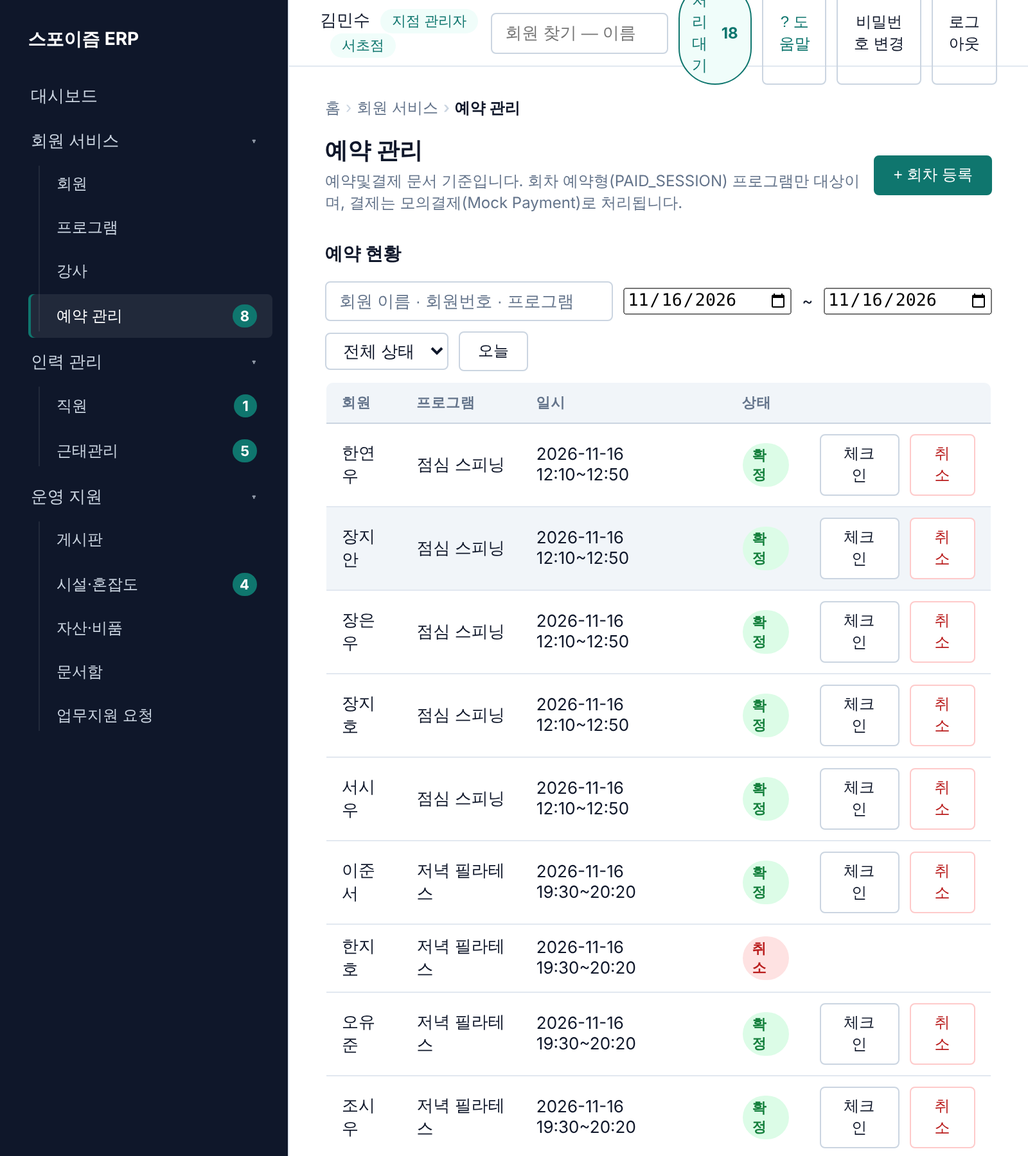
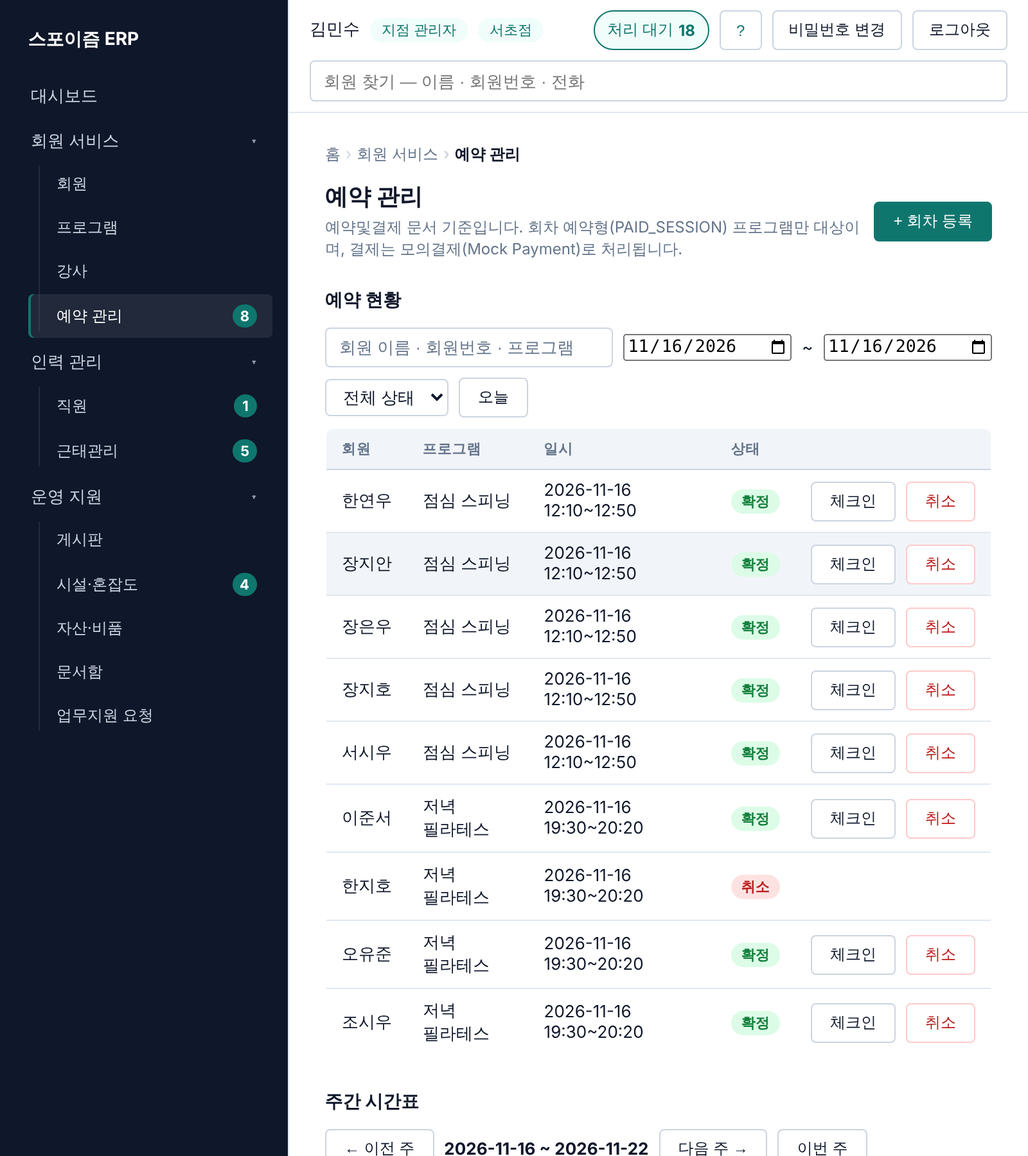
fix(admin-web): 800px 상단 바 두 줄·표 라벨 한 줄, 꺾인 글자 화면 검사 추가 — 12주차 덱 반영 (log/233)
- 상단 바(900px 이하): 1줄 이름·버튼, 2줄 회원 찾기. 글자 줄바꿈 금지, 도움말은 "?"만(aria-label 유지)
- 표: 상태 표시·버튼 한 줄, 칸은 띄어쓰기에서만 줄바꿈(keep-all). 회원 표는 .table-scroll(log/228 방식)
- admin-layout: 상단 바·표 라벨의 꺾인 글자 검사(D59) — 수정 전 실패 확인
- 덱 narrow·wrap 다시 찍고 문구 갱신

Claude-Session: https://claude.ai/code/session_01NJ8jv6LpwMdNJw8WZYQchH

diff --git a/docs/presentation/assets/4-9_12주차발표/deck-source/deck-out/project/slides/narrow.html b/docs/presentation/assets/4-9_12주차발표/deck-source/deck-out/project/slides/narrow.html
@@ -1,1 +1,1 @@
-<section id="narrow" data-transition="fade" style="background:#F4F5F3; color:#14191C; font-family:'Noto Sans KR', 'Malgun Gothic', 'Apple SD Gothic Neo', sans-serif; padding:72px 96px 120px; display:flex; flex-direction:column; gap:16px"><p style="font-family:'JetBrains Mono', 'Noto Sans KR', Consolas, monospace; font-size:24px; font-weight:600; letter-spacing:3px; color:#1E3A5F">사용감 · 좁은 화면</p><h2 style="font-family:'Gothic A1', 'Noto Sans KR', 'Malgun Gothic', sans-serif; font-size:60px; font-weight:700; line-height:1.15; letter-spacing:-1px; color:#14191C">좁은 창에서 넘치던 곳을 고쳤다</h2><p style="font-size:30px; line-height:1.45; color:#4B5563; width:1728px">좁은 노트북이나 창을 나눠 쓸 때(800px)도 내용이 잘리면 안 된다.</p><div style="flex:1; display:flex; flex-direction:column; justify-content:center; gap:32px"><div style="display:flex; gap:40px; align-items:flex-start"><div style="flex:1; display:flex; flex-direction:column; gap:14px"><p style="font-family:'JetBrains Mono', 'Noto Sans KR', Consolas, monospace; font-size:24px; font-weight:600; color:#9A5A0C; background:#F6ECDD; border-radius:999px; padding:4px 18px; white-space:nowrap">변경 전</p><div style="width:820px; display:flex; flex-direction:column; background:#FFFFFF; border:1px solid #CBD0CD; border-radius:14px; box-shadow:0 1px 2px rgba(20,25,28,0.05), 0 14px 32px -18px rgba(20,25,28,0.28); overflow:hidden"><div style="display:flex; gap:10px; align-items:center; padding:12px 20px; background:#EBEEEC; border-bottom:1px solid #E1E4E1"><div style="width:14px; height:14px; background:#d9534f; border-radius:256px"></div><div style="width:14px; height:14px; background:#e0a43a; border-radius:256px"></div><div style="width:14px; height:14px; background:#4caf6a; border-radius:256px"></div><p style="font-family:'JetBrains Mono', 'Noto Sans KR', Consolas, monospace; font-size:24px; white-space:nowrap; color:#4B5563; padding:0 0 0 16px">예약 관리 · 800px</p></div><img src="/_blob/b4fae15b470ba737e840d5d6b7fd0ec1" alt="800px 폭 예약 관리 — 상태 선택이 화면 밖으로 잘림" style="width:820px; height:322px; object-fit:contain; background:#FFFFFF"></div><p style="font-size:28px; font-weight:400; line-height:1.45; color:#14191C">필터 줄이 화면 밖으로 잘린다</p></div><div style="flex:1; display:flex; flex-direction:column; gap:14px"><p style="font-family:'JetBrains Mono', 'Noto Sans KR', Consolas, monospace; font-size:24px; font-weight:600; color:#187650; background:#E3F1EA; border-radius:999px; padding:4px 18px; white-space:nowrap">변경 후</p><div style="width:820px; display:flex; flex-direction:column; background:#FFFFFF; border:1px solid #CBD0CD; border-radius:14px; box-shadow:0 1px 2px rgba(20,25,28,0.05), 0 14px 32px -18px rgba(20,25,28,0.28); overflow:hidden"><div style="display:flex; gap:10px; align-items:center; padding:12px 20px; background:#EBEEEC; border-bottom:1px solid #E1E4E1"><div style="width:14px; height:14px; background:#d9534f; border-radius:256px"></div><div style="width:14px; height:14px; background:#e0a43a; border-radius:256px"></div><div style="width:14px; height:14px; background:#4caf6a; border-radius:256px"></div><p style="font-family:'JetBrains Mono', 'Noto Sans KR', Consolas, monospace; font-size:24px; white-space:nowrap; color:#4B5563; padding:0 0 0 16px">예약 관리 · 800px</p></div><img src="/_blob/83c988ccf675f425206cb1b4c53bb14b" alt="800px 폭 예약 관리 — 필터가 두 줄로 줄바꿈" style="width:820px; height:322px; object-fit:contain; background:#FFFFFF"></div><p style="font-size:28px; font-weight:400; line-height:1.45; color:#14191C">두 줄로 내려와 모두 보인다</p></div></div></div><p style="position:absolute; left:96px; bottom:40px; width:1728px; font-size:24px; color:#4B5563">문서함 · 자산 표는 표만 옆으로 넘기게 고침 · 상단 바 버튼 줄바꿈은 다음 할 일</p><aside>좁은 노트북이나 창을 나눠 쓸 때(800px). 테스트가 찾은 넘침 세 곳 — 예약 관리 필터 줄, 문서함 표, 자산 표. 필터 줄은 줄바꿈되게, 표는 표만 가로로 넘기게 고쳤다(본문은 밀리지 않음). 테스트가 처음에 실행마다 결과가 달랐는데, 목록이 그려지기 전에 재면 통과하는 측정 시점 문제였다 — 목록이 다 뜬 뒤 재도록 고쳤다. 정직하게: 같은 폭에서 위쪽 상단 바(처리 대기 · 비밀번호 변경 버튼)는 아직 줄바꿈된다 — 넘침 검사로는 안 잡히는 종류라 다음 할 일로 남겼다.</aside></section>
+<section id="narrow" data-transition="fade" style="background:#F4F5F3; color:#14191C; font-family:'Noto Sans KR', 'Malgun Gothic', 'Apple SD Gothic Neo', sans-serif; padding:72px 96px 120px; display:flex; flex-direction:column; gap:16px"><p style="font-family:'JetBrains Mono', 'Noto Sans KR', Consolas, monospace; font-size:24px; font-weight:600; letter-spacing:3px; color:#1E3A5F">사용감 · 좁은 화면</p><h2 style="font-family:'Gothic A1', 'Noto Sans KR', 'Malgun Gothic', sans-serif; font-size:60px; font-weight:700; line-height:1.15; letter-spacing:-1px; color:#14191C">좁은 창에서 깨지던 곳을 고쳤다</h2><p style="font-size:30px; line-height:1.45; color:#4B5563; width:1728px">좁은 노트북이나 창을 나눠 쓸 때(800px)도 글자가 잘리거나 꺾이면 안 된다.</p><div style="flex:1; display:flex; flex-direction:column; justify-content:center; gap:32px"><div style="display:flex; gap:40px; align-items:flex-start"><div style="flex:1; display:flex; flex-direction:column; gap:14px"><p style="font-family:'JetBrains Mono', 'Noto Sans KR', Consolas, monospace; font-size:24px; font-weight:600; color:#9A5A0C; background:#F6ECDD; border-radius:999px; padding:4px 18px; white-space:nowrap">변경 전</p><div style="width:720px; display:flex; flex-direction:column; background:#FFFFFF; border:1px solid #CBD0CD; border-radius:14px; box-shadow:0 1px 2px rgba(20,25,28,0.05), 0 14px 32px -18px rgba(20,25,28,0.28); overflow:hidden"><div style="display:flex; gap:10px; align-items:center; padding:12px 20px; background:#EBEEEC; border-bottom:1px solid #E1E4E1"><div style="width:14px; height:14px; background:#d9534f; border-radius:256px"></div><div style="width:14px; height:14px; background:#e0a43a; border-radius:256px"></div><div style="width:14px; height:14px; background:#4caf6a; border-radius:256px"></div><p style="font-family:'JetBrains Mono', 'Noto Sans KR', Consolas, monospace; font-size:24px; white-space:nowrap; color:#4B5563; padding:0 0 0 16px">예약 관리 · 800px</p></div><img src="/_blob/a7e596ab9562a589108eedd83ea63d2c" alt="800px 폭 예약 관리 — 상단 버튼·이름·상태가 글자 중간에서 꺾이고 필터가 잘림" style="width:720px; height:513px; object-fit:contain; background:#FFFFFF"></div><p style="font-size:28px; font-weight:400; line-height:1.45; color:#14191C">버튼 · 이름이 꺾이고 필터가 잘린다</p></div><div style="flex:1; display:flex; flex-direction:column; gap:14px"><p style="font-family:'JetBrains Mono', 'Noto Sans KR', Consolas, monospace; font-size:24px; font-weight:600; color:#187650; background:#E3F1EA; border-radius:999px; padding:4px 18px; white-space:nowrap">변경 후</p><div style="width:720px; display:flex; flex-direction:column; background:#FFFFFF; border:1px solid #CBD0CD; border-radius:14px; box-shadow:0 1px 2px rgba(20,25,28,0.05), 0 14px 32px -18px rgba(20,25,28,0.28); overflow:hidden"><div style="display:flex; gap:10px; align-items:center; padding:12px 20px; background:#EBEEEC; border-bottom:1px solid #E1E4E1"><div style="width:14px; height:14px; background:#d9534f; border-radius:256px"></div><div style="width:14px; height:14px; background:#e0a43a; border-radius:256px"></div><div style="width:14px; height:14px; background:#4caf6a; border-radius:256px"></div><p style="font-family:'JetBrains Mono', 'Noto Sans KR', Consolas, monospace; font-size:24px; white-space:nowrap; color:#4B5563; padding:0 0 0 16px">예약 관리 · 800px</p></div><img src="/_blob/3f4e70c57429020434710e88a1553030" alt="800px 폭 예약 관리 — 상단 바 두 줄, 라벨 한 줄, 필터 두 줄" style="width:720px; height:513px; object-fit:contain; background:#FFFFFF"></div><p style="font-size:28px; font-weight:400; line-height:1.45; color:#14191C">한 줄로 읽히고 모두 보인다</p></div></div></div><p style="position:absolute; left:96px; bottom:40px; width:1728px; font-size:24px; color:#4B5563">문서함 · 자산 · 회원 표는 표만 옆으로 · 꺾인 글자도 테스트가 본다(log/233)</p><aside>좁은 노트북이나 창을 나눠 쓸 때(800px). 테스트가 찾은 넘침 세 곳 — 예약 관리 필터 줄, 문서함 표, 자산 표. 필터 줄은 줄바꿈되게, 표는 표만 가로로 넘기게 고쳤다(본문은 밀리지 않음). 테스트가 처음에 실행마다 결과가 달랐는데, 목록이 그려지기 전에 재면 통과하는 측정 시점 문제였다 — 목록이 다 뜬 뒤 재도록 고쳤다. 덱을 만들며 눈으로 찾은 것도 고쳤다: 상단 바 버튼과 표 안 이름 · 상태 · 버튼이 글자 중간에서 꺾였다 — 넘침 검사로는 안 잡히는 종류라 "꺾인 글자" 검사를 테스트에 더했다. 상단 바는 좁은 폭에서 두 줄(이름 · 버튼 / 회원 찾기), 표 칸은 띄어쓰기에서만 줄바꿈.</aside></section>

diff --git a/docs/presentation/assets/4-9_12주차발표/deck-source/deck-out/project/slides/wrap.html b/docs/presentation/assets/4-9_12주차발표/deck-source/deck-out/project/slides/wrap.html
@@ -1,1 +1,1 @@
-<section id="wrap" data-transition="fade" style="background:#F4F5F3; color:#14191C; font-family:'Noto Sans KR', 'Malgun Gothic', 'Apple SD Gothic Neo', sans-serif; padding:72px 96px 120px; display:flex; flex-direction:column; gap:16px"><p style="font-family:'JetBrains Mono', 'Noto Sans KR', Consolas, monospace; font-size:24px; font-weight:600; letter-spacing:3px; color:#1E3A5F">정리</p><h2 style="font-family:'Gothic A1', 'Noto Sans KR', 'Malgun Gothic', sans-serif; font-size:60px; font-weight:700; line-height:1.15; letter-spacing:-1px; color:#14191C">다음 할 일</h2><p style="font-size:30px; line-height:1.45; color:#4B5563; width:1728px">남은 것은 제출 준비, 사용감 점검, 마무리다.</p><div style="flex:1; display:flex; flex-direction:column; justify-content:center; gap:32px"><div style="display:flex; gap:20px; align-items:stretch"><div style="display:flex; flex-direction:column; gap:14px; background:#FFFFFF; border:1px solid #E1E4E1; border-radius:14px; padding:36px; box-shadow:0 1px 2px rgba(20,25,28,0.05), 0 14px 32px -18px rgba(20,25,28,0.28); flex:1"><x-icon name="Book" style="color:#1E3A5F; width:48px; height:48px"></x-icon><h3 style="font-family:'Gothic A1', 'Noto Sans KR', 'Malgun Gothic', sans-serif; font-size:34px; font-weight:700; line-height:1.25; color:#14191C">최종 발표 · 제출</h3><p style="font-size:28px; font-weight:400; line-height:1.45; color:#4B5563">최종 발표 덱 · 제출 폴더</p></div><div style="display:flex; flex-direction:column; gap:14px; background:#FFFFFF; border:1px solid #E1E4E1; border-radius:14px; padding:36px; box-shadow:0 1px 2px rgba(20,25,28,0.05), 0 14px 32px -18px rgba(20,25,28,0.28); flex:1"><x-icon name="Search" style="color:#1E3A5F; width:48px; height:48px"></x-icon><h3 style="font-family:'Gothic A1', 'Noto Sans KR', 'Malgun Gothic', sans-serif; font-size:34px; font-weight:700; line-height:1.25; color:#14191C">사용감 직접 점검</h3><p style="font-size:28px; font-weight:400; line-height:1.45; color:#4B5563">좁은 폭 상단 바 · 남은 스크롤 · 시설 카드 버튼</p></div><div style="display:flex; flex-direction:column; gap:14px; background:#FFFFFF; border:1px solid #E1E4E1; border-radius:14px; padding:36px; box-shadow:0 1px 2px rgba(20,25,28,0.05), 0 14px 32px -18px rgba(20,25,28,0.28); flex:1"><x-icon name="Check" style="color:#1E3A5F; width:48px; height:48px"></x-icon><h3 style="font-family:'Gothic A1', 'Noto Sans KR', 'Malgun Gothic', sans-serif; font-size:34px; font-weight:700; line-height:1.25; color:#14191C">마무리</h3><p style="font-size:28px; font-weight:400; line-height:1.45; color:#4B5563">운영 PT 구매 확인 · 브랜치 정리 · main 병합</p></div></div></div><aside>남은 것은 진행률의 발표 · 제출(최종 발표 덱 · 제출 폴더)과 운영 · 마무리(운영 PT 확인 · 브랜치 정리 · main 병합). 사용감은 사용자가 직접 더 써 보며 찾는다 — 이번에 본 좁은 폭 상단 바, 공지 등록 버튼 · 회원 앱 예약 취소까지의 스크롤, 넓은 화면에서 시설 카드 버튼이 세로로 찌그러지는 것. 검증 범위(질문 대비): api 자동 테스트 671건(실DB), 화면 자동 테스트 35건 — 그 밖의 화면은 lint · 빌드와 수동 점검.</aside></section>
+<section id="wrap" data-transition="fade" style="background:#F4F5F3; color:#14191C; font-family:'Noto Sans KR', 'Malgun Gothic', 'Apple SD Gothic Neo', sans-serif; padding:72px 96px 120px; display:flex; flex-direction:column; gap:16px"><p style="font-family:'JetBrains Mono', 'Noto Sans KR', Consolas, monospace; font-size:24px; font-weight:600; letter-spacing:3px; color:#1E3A5F">정리</p><h2 style="font-family:'Gothic A1', 'Noto Sans KR', 'Malgun Gothic', sans-serif; font-size:60px; font-weight:700; line-height:1.15; letter-spacing:-1px; color:#14191C">다음 할 일</h2><p style="font-size:30px; line-height:1.45; color:#4B5563; width:1728px">남은 것은 제출 준비, 사용감 점검, 마무리다.</p><div style="flex:1; display:flex; flex-direction:column; justify-content:center; gap:32px"><div style="display:flex; gap:20px; align-items:stretch"><div style="display:flex; flex-direction:column; gap:14px; background:#FFFFFF; border:1px solid #E1E4E1; border-radius:14px; padding:36px; box-shadow:0 1px 2px rgba(20,25,28,0.05), 0 14px 32px -18px rgba(20,25,28,0.28); flex:1"><x-icon name="Book" style="color:#1E3A5F; width:48px; height:48px"></x-icon><h3 style="font-family:'Gothic A1', 'Noto Sans KR', 'Malgun Gothic', sans-serif; font-size:34px; font-weight:700; line-height:1.25; color:#14191C">최종 발표 · 제출</h3><p style="font-size:28px; font-weight:400; line-height:1.45; color:#4B5563">최종 발표 덱 · 제출 폴더</p></div><div style="display:flex; flex-direction:column; gap:14px; background:#FFFFFF; border:1px solid #E1E4E1; border-radius:14px; padding:36px; box-shadow:0 1px 2px rgba(20,25,28,0.05), 0 14px 32px -18px rgba(20,25,28,0.28); flex:1"><x-icon name="Search" style="color:#1E3A5F; width:48px; height:48px"></x-icon><h3 style="font-family:'Gothic A1', 'Noto Sans KR', 'Malgun Gothic', sans-serif; font-size:34px; font-weight:700; line-height:1.25; color:#14191C">사용감 직접 점검</h3><p style="font-size:28px; font-weight:400; line-height:1.45; color:#4B5563">남은 스크롤 · 시설 카드 버튼</p></div><div style="display:flex; flex-direction:column; gap:14px; background:#FFFFFF; border:1px solid #E1E4E1; border-radius:14px; padding:36px; box-shadow:0 1px 2px rgba(20,25,28,0.05), 0 14px 32px -18px rgba(20,25,28,0.28); flex:1"><x-icon name="Check" style="color:#1E3A5F; width:48px; height:48px"></x-icon><h3 style="font-family:'Gothic A1', 'Noto Sans KR', 'Malgun Gothic', sans-serif; font-size:34px; font-weight:700; line-height:1.25; color:#14191C">마무리</h3><p style="font-size:28px; font-weight:400; line-height:1.45; color:#4B5563">운영 PT 구매 확인 · 브랜치 정리 · main 병합</p></div></div></div><aside>남은 것은 진행률의 발표 · 제출(최종 발표 덱 · 제출 폴더)과 운영 · 마무리(운영 PT 확인 · 브랜치 정리 · main 병합). 사용감은 사용자가 직접 더 써 보며 찾는다 — 공지 등록 버튼 · 회원 앱 예약 취소까지의 스크롤, 넓은 화면에서 시설 카드 버튼이 세로로 찌그러지는 것. 검증 범위(질문 대비): api 자동 테스트 671건(실DB), 화면 자동 테스트 35건 — 그 밖의 화면은 lint · 빌드와 수동 점검.</aside></section>

diff --git a/apps/admin-web/src/pages/MembersPage.tsx b/apps/admin-web/src/pages/MembersPage.tsx
@@ -275,34 +275,37 @@ export function MembersPage() {
       )}
 
       {!isError && rows.length > 0 && (
-        <table>
-          <thead>
-            <tr>
-              {isSuperAdmin && <SortTh label="지점" sortKey="branch" sort={sort} onToggle={toggleSort} />}
-              <SortTh label="회원번호" sortKey="memberNo" sort={sort} onToggle={toggleSort} />
-              <SortTh label="이름" sortKey="name" sort={sort} onToggle={toggleSort} />
-              <th>연락처</th>
-              <SortTh label="담당 직원" sortKey="assignedStaff" sort={sort} onToggle={toggleSort} />
-              <SortTh label="상태" sortKey="status" sort={sort} onToggle={toggleSort} />
-              <SortTh label="가입일" sortKey="joinedAt" sort={sort} onToggle={toggleSort} />
-            </tr>
-          </thead>
-          <tbody>
-            {rows.map((m) => (
-              <tr key={m.id} className="branch-row" onClick={() => navigate(`/members/${m.id}`)}>
-                {isSuperAdmin && <td>{m.branchName ?? '-'}</td>}
-                <td>{m.memberNo}</td>
-                <td>{m.name}</td>
-                <td>{m.phone ?? '-'}</td>
-                <td>{m.assignedStaffName ?? '회원권만(미배정)'}</td>
-                <td>
-                  <span className={`badge ${m.status}`}>{STATUS_LABEL[m.status] ?? m.status}</span>
-                </td>
-                <td>{m.joinedAt}</td>
+        // 좁은 폭에서는 표만 가로로 넘긴다(log/228·233 — 칸 글자는 띄어쓰기에서만 줄바꿈해 표가 넓어질 수 있다)
+        <div className="table-scroll">
+          <table>
+            <thead>
+              <tr>
+                {isSuperAdmin && <SortTh label="지점" sortKey="branch" sort={sort} onToggle={toggleSort} />}
+                <SortTh label="회원번호" sortKey="memberNo" sort={sort} onToggle={toggleSort} />
+                <SortTh label="이름" sortKey="name" sort={sort} onToggle={toggleSort} />
+                <th>연락처</th>
+                <SortTh label="담당 직원" sortKey="assignedStaff" sort={sort} onToggle={toggleSort} />
+                <SortTh label="상태" sortKey="status" sort={sort} onToggle={toggleSort} />
+                <SortTh label="가입일" sortKey="joinedAt" sort={sort} onToggle={toggleSort} />
               </tr>
-            ))}
-          </tbody>
-        </table>
+            </thead>
+            <tbody>
+              {rows.map((m) => (
+                <tr key={m.id} className="branch-row" onClick={() => navigate(`/members/${m.id}`)}>
+                  {isSuperAdmin && <td>{m.branchName ?? '-'}</td>}
+                  <td>{m.memberNo}</td>
+                  <td>{m.name}</td>
+                  <td>{m.phone ?? '-'}</td>
+                  <td>{m.assignedStaffName ?? '회원권만(미배정)'}</td>
+                  <td>
+                    <span className={`badge ${m.status}`}>{STATUS_LABEL[m.status] ?? m.status}</span>
+                  </td>
+                  <td>{m.joinedAt}</td>
+                </tr>
+              ))}
+            </tbody>
+          </table>
+        </div>
       )}
 
       <Pager page={page} pageSize={PAGE_SIZE} total={total} onChange={setPage} disabled={isFetching} />

diff --git a/apps/admin-web/src/styles.css b/apps/admin-web/src/styles.css
@@ -556,11 +556,43 @@ body {
   color: var(--color-text-muted);
 }
 
+/* 좁은 화면(900px 이하, log/233) — 상단 바를 두 줄로: 1줄 이름·버튼, 2줄 회원 찾기(전체 폭).
+   글자는 줄바꿈하지 않고, 이름이 길면 말줄임. 도움말 버튼은 "?"만(접근 이름은 aria-label). 높이는 고정(88px)이라 도움말 패널이 그 아래에 붙는다. */
+@media (max-width: 900px) {
+  .topbar {
+    height: 88px;
+    flex-wrap: wrap;
+    align-content: center;
+    row-gap: 8px;
+    column-gap: 12px;
+    padding: 0 16px;
+  }
+  .topbar .who {
+    flex: 1 1 0;
+    min-width: 0;
+    white-space: nowrap;
+    overflow: hidden;
+    text-overflow: ellipsis;
+  }
+  .topbar-actions {
+    flex-shrink: 0;
+    white-space: nowrap;
+  }
+  .help-btn-label {
+    display: none;
+  }
+  .topbar .quick-search {
+    order: 1;
+    flex: 1 0 100%;
+    margin: 0;
+  }
+}
+
 /* 좁은 화면에서는 본문 위에 겹쳐 띄운다(본문 폭을 빼앗지 않게). */
 @media (max-width: 900px) {
   .help-panel {
     position: fixed;
-    top: 52px;
+    top: 88px;
     right: 0;
     bottom: 0;
     width: min(320px, 100vw);
@@ -670,6 +702,18 @@ tbody tr:hover td {
   border-radius: var(--radius-pill);
   font-size: 11px;
   font-weight: 600;
+  white-space: nowrap; /* 좁은 표에서 "확정"이 세로로 쪼개지지 않게(log/233) */
+}
+
+/* 표 안 버튼("체크인"·"취소")도 한 줄, 칸 글자는 띄어쓰기에서만 줄바꿈 — 좁은 폭에서 "한연|우"처럼
+   이름이 글자 중간에서 끊기지 않게(log/233) */
+td button {
+  white-space: nowrap;
+}
+td,
+th {
+  word-break: keep-all;
+  overflow-wrap: break-word; /* 띄어쓰기 없는 아주 긴 값만 마지막 수단으로 끊는다 */
 }
 
 .badge.RUNNING,

diff --git a/apps/admin-web/src/layout/AppLayout.tsx b/apps/admin-web/src/layout/AppLayout.tsx
@@ -270,8 +270,9 @@ export function AppLayout() {
               className={helpOpen ? 'help-btn active' : 'help-btn'}
               onClick={() => setHelpOpen((v) => !v)}
               aria-expanded={helpOpen}
+              aria-label="도움말"
             >
-              ? 도움말
+              ?<span className="help-btn-label"> 도움말</span>
             </button>
             <button type="button" className="logout-btn" onClick={() => setShowPassword(true)}>
               비밀번호 변경

diff --git a/docs/STATUS.md b/docs/STATUS.md
@@ -1,7 +1,7 @@
 # STATUS — 지금 상태와 다음 할 일
 
 > **세션 시작점.** 이 파일은 "지금"만 담고 세션을 마칠 때마다 **덮어쓴다**(80줄 상한, `scripts/doc-check.mjs`). 끝난 일은 지우고 경위는 [log/](log/README.md)로 보낸다.
-> 마지막 갱신: 2026-11-16 · [log/231](log/2026-W47.md#231)(12주차 발표 덱 16장 게시), [log/230](log/2026-W47.md#230)(운영 의존성 취약점 3 → 0, NestJS 11.2.10), [log/229](log/2026-W47.md#229)(계약 갱신용 영업 리포트 D81, 기업 분석 대체 문서 점검, 교육 자료 PDF 재생성 — 운영 게시판 교체는 사용자), [log/228](log/2026-W46.md#228)(검증 공백 7개 보강 — jest 25건·화면 9건, 800px 폭 넘침 3곳 수정, 진행률 84%), [log/227](log/2026-W46.md#227)(산출물 8종 재생성 — 진행률 66% → 76%), [log/226](log/2026-W46.md#226)(전체 진행률 기준, D80), [log/225](log/2026-W46.md#225)(문서 정리 — 로그를 주 단위 파일로, 지난 결정 17개를 `decisions/archive.md`로, D79), [log/222](log/2026-W46.md#222)~[log/224](log/2026-W46.md#224)(리팩토링 — api 응답 타입 `Mock*`→`*Response`, 두 웹앱 공유 코드 `packages/web-shared` D78, admin-web 복사된 오류 타입·이름표 공용화, 동작 변경 없음 약 −190줄), [log/221](log/2026-W46.md#221)(branch-isolation 휴가 픽스처 날짜를 오늘 기준으로), [log/220](log/2026-W46.md#220)(11주차 덱 — 화면 안 순서 예시 캡처), [log/219](log/2026-W46.md#219)(회원 앱 PT 구매·PT 회차 예약, ADR-RSV-09 — 배포 DB·Lambda·Worker 운영 반영), [log/218](log/2026-W46.md#218)(회원 앱 형태 = 모바일 웹 유지, D77), [log/217](log/2026-W46.md#217)(11주차 덱 — 문서 파일을 보안 설계로), [log/216](log/2026-W46.md#216)(단계 줄인 작업 네 개 모두 비교), [log/215](log/2026-W46.md#215)(장마다 맥락 한 줄), [log/214](log/2026-W46.md#214)(11주차 덱 14장으로 정리), [log/213](log/2026-W46.md#213)(사용감 변경 전·후 캡처 비교), [log/212](log/2026-W46.md#212)(11주차 발표 덱 게시), [log/211](log/2026-W46.md#211)(충족률 분모에서 해당 없음 제외 — 94%, D76), [log/210](log/2026-W46.md#210)(추적표 D72~D75 재대조), [log/209](log/2026-W46.md#209)(Worker 재배포 확인, 발표 전 할 일 정리). 2026-11-08 세션(사용감·목록 일관화·문서 파일·시각화)은 [log/197](log/2026-W45.md#197)~[log/208](log/2026-W45.md#208) — 결정 D72~D75·권한관리 ADR-AUTH-09·자원문서관리 ADR-RES-05. 그 이전 경위는 [log/README](log/README.md) 인덱스에서 찾는다.
+> 마지막 갱신: 2026-11-16 · [log/233](log/2026-W47.md#233)(800px 상단 바 두 줄·표 라벨 한 줄, 꺾인 글자 검사 추가, 덱 반영), [log/232](log/2026-W47.md#232)(12주차 덱 가독성 정리), [log/231](log/2026-W47.md#231)(12주차 발표 덱 16장 게시), [log/230](log/2026-W47.md#230)(운영 의존성 취약점 3 → 0, NestJS 11.2.10), [log/229](log/2026-W47.md#229)(계약 갱신용 영업 리포트 D81, 기업 분석 대체 문서 점검, 교육 자료 PDF 재생성 — 운영 게시판 교체는 사용자), [log/228](log/2026-W46.md#228)(검증 공백 7개 보강 — jest 25건·화면 9건, 800px 폭 넘침 3곳 수정, 진행률 84%), [log/227](log/2026-W46.md#227)(산출물 8종 재생성 — 진행률 66% → 76%), [log/226](log/2026-W46.md#226)(전체 진행률 기준, D80), [log/225](log/2026-W46.md#225)(문서 정리 — 로그를 주 단위 파일로, 지난 결정 17개를 `decisions/archive.md`로, D79), [log/222](log/2026-W46.md#222)~[log/224](log/2026-W46.md#224)(리팩토링 — api 응답 타입 `Mock*`→`*Response`, 두 웹앱 공유 코드 `packages/web-shared` D78, admin-web 복사된 오류 타입·이름표 공용화, 동작 변경 없음 약 −190줄), [log/221](log/2026-W46.md#221)(branch-isolation 휴가 픽스처 날짜를 오늘 기준으로), [log/220](log/2026-W46.md#220)(11주차 덱 — 화면 안 순서 예시 캡처), [log/219](log/2026-W46.md#219)(회원 앱 PT 구매·PT 회차 예약, ADR-RSV-09 — 배포 DB·Lambda·Worker 운영 반영), [log/218](log/2026-W46.md#218)(회원 앱 형태 = 모바일 웹 유지, D77), [log/217](log/2026-W46.md#217)(11주차 덱 — 문서 파일을 보안 설계로), [log/216](log/2026-W46.md#216)(단계 줄인 작업 네 개 모두 비교), [log/215](log/2026-W46.md#215)(장마다 맥락 한 줄), [log/214](log/2026-W46.md#214)(11주차 덱 14장으로 정리), [log/213](log/2026-W46.md#213)(사용감 변경 전·후 캡처 비교), [log/212](log/2026-W46.md#212)(11주차 발표 덱 게시), [log/211](log/2026-W46.md#211)(충족률 분모에서 해당 없음 제외 — 94%, D76), [log/210](log/2026-W46.md#210)(추적표 D72~D75 재대조), [log/209](log/2026-W46.md#209)(Worker 재배포 확인, 발표 전 할 일 정리). 2026-11-08 세션(사용감·목록 일관화·문서 파일·시각화)은 [log/197](log/2026-W45.md#197)~[log/208](log/2026-W45.md#208) — 결정 D72~D75·권한관리 ADR-AUTH-09·자원문서관리 ADR-RES-05. 그 이전 경위는 [log/README](log/README.md) 인덱스에서 찾는다.
 
 ## 현재 상태
 
@@ -15,7 +15,7 @@
 | api 호스팅 | **AWS Lambda(서울) 운영 중**, Worker origin = Function URL(별칭 `live`). 배포는 `dev` push 또는 Actions 수동 실행(OIDC, 헬스체크 실패 시 이전 버전). 운영 실측 W 약 40ms, 과부하 실제 처리 약 80~90 rps(D50). 동시 실행 상한 10·1,024MB(D42), DB는 Session pooler 5432(D49). NestJS 11(D65) | [D37](decisions/D37.md), [D50](decisions/D50.md) |
 | 웹·엣지 | Cloudflare Worker(정적 자산 + 프록시 + 로그인 rate limit). 관리자 웹은 직원 계정만(D66), 회원 기능은 `apps/member-web`(`/m/`, PWA — D41·D45). 마지막 Worker 재배포 2026-11-09 저녁(사용자 — `dev` e996233까지: 회원 앱 PT 구매·PT 회차 예약 ADR-RSV-09, log/219 — 첫 재배포는 옛 빌드라 다시 함, 운영 파일이 로컬 `dev` 빌드와 같은 해시(회원 `index-DNRhi1NJ`·관리자 `index-CJpz2Mou`)이고 새 API가 401(라우트 있음)인 것까지 확인. 운영 화면에서 실제 구매·예약은 확인 전). 그 전 재배포(운영 확인 2026-11-09: 차트·문서 파일 올리기·열기·회원 빠른 찾기 정상, 사용자)는 `dev` 16b01cf까지: 회원 빠른 찾기 D72·화면 안 순서 D73·목록 일관화 D74·CSV 확대·문서 파일·운영 실적 차트 D75, log/209) | [D25](decisions/D25.md), [D66](decisions/D66.md) |
 | 규칙의 자리 | 지점 격리 = 전역 `BranchScopeGuard`(D46), 세부 권한 = 전역 `PermissionGuard`(D60), 계약 종료 = 쓰기 트랜잭션 안 지점 행 공유 락(D70), 종료 전이 시 파견 종료(ADR-STF-07·08), 종료 확정은 해지 합의서 필요(D69). 계약 정보 = 계약 회차(`ContractRound`, D69). 변경 이력 20종(D44·D47·D52·ADR-STF-09·D60 권한·D68 지점 등록·계약 3종·D69 계약 파일 3종·D71 실물 이관·정리·ADR-RES-05 문서 열람), 혼잡도 = 진행 중 강습 예약 + 현장 입력(ADR-FAC-05) | [D46](decisions/D46.md), [D60](decisions/D60.md) |
-| 검증 | API jest 61개 파일 671건(실DB, 2026-11-16, 갱신 리포트 log/229 포함 — 기준·고밀도 템플릿 둘 — D58), 화면 자동 테스트 35건(D59, CI만 — 800px 폭 가로 넘침 검사 포함), 그 밖 화면은 lint·빌드와 시연 데이터 점검(log/125~130). 작업 단계 측정 20건(`npm run steps --workspace=e2e`, CI 아님 — log/198) | [D59](decisions/D59.md) |
+| 검증 | API jest 61개 파일 671건(실DB, 2026-11-16, 갱신 리포트 log/229 포함 — 기준·고밀도 템플릿 둘 — D58), 화면 자동 테스트 35건(D59, CI만 — 800px 폭 가로 넘침·꺾인 글자 검사 포함), 그 밖 화면은 lint·빌드와 시연 데이터 점검(log/125~130). 작업 단계 측정 20건(`npm run steps --workspace=e2e`, CI 아님 — log/198) | [D59](decisions/D59.md) |
 | 시연 데이터 | 계약 상태별 5곳(서초·강남 정상, 마포 갱신 임박, 송파 만료, 노원 종료). `npm run seed:demo`가 실행일 기준 지난 90일·앞으로 3주를 얹는다(회원 211명 등). 배포 DB도 같은 데이터(2026-10-20 재시드, log/143) | [D58](decisions/D58.md) |
 | 산출물 | 요구사항·데이터 정의서(Excel), 기업 분석·제안서·아키텍처 설계서·사용자 매뉴얼·진행 보고서 5부(Word), 교육 자료(PDF), RFP 이행 증빙(PDF) — **2026-11-14 재생성**(ADR-RSV-09·D68~D80까지, 캡처 51장 새로). `scripts/deliverables/`로 재생성 | [log/227](log/2026-W46.md#227) |
 | 중간 제출 | 중간보고서 덱 55장(https://claude.ai/artifact/M2NBGeZcaBdTgkT1msjwQb, 생성기 `presentation/assets/4-7_중간발표/deck-source/viz/deck47.js`), RFP 이행 증빙(https://claude.ai/artifact/K1RjzzmZN4Er8tiKitEZ4e), 제출 폴더 조립 `node scripts/deliverables/pack-midterm.mjs` → `중간제출/`(저장소 밖) | [D67](decisions/D67.md), [log/178](log/2026-W43.md#178), [log/179](log/2026-W43.md#179) |
@@ -31,7 +31,7 @@
 3. **정리**(사용자): 원격 작업 브랜치 `claude/*` 9개(jolly-brahmagupta-bmaxnp·list-consistency·csv-export·list-search·list-sort·document-files·document-files-ops·visualization·status-before-presentation) 삭제 — 모두 `dev`에 병합됨(세션은 브랜치 삭제 불가).
 4. **교육 자료 운영 게시판 교체**(사용자 — 세션에서 운영 주소 접속 불가, log/229): 게시판 → "직원 교육자료" 탭의 본사 공지 → 수정 → 첨부의 옛 `교육자료_빠른시작.pdf` 삭제 → 새 파일(`docs/deliverables/교육자료_빠른시작.pdf`, 2026-11-16) 첨부. 웹 재배포도 함께(PR #157·#158·이번 갱신 리포트 화면).
 
-**발표 뒤(선택, 착수 여부는 사용자)**: 사용감 추가 점검(사용자가 직접 더 확인 — 자주 쓰는 다른 작업의 불필요한 단계·화면 구성, 800px 이하 폭에서 상단 바 버튼 줄바꿈 log/231), 시설·혼잡도 화면 1440px 폭에서 시설 카드 버튼(입력·정보 수정·운영 중단)이 세로로 찌그러짐(log/212 캡처 중 발견), 남은 스크롤 2곳(공지 등록 버튼 B09·회원 웹 예약 취소 M02, log/198), 처리 대기함 "처리할 업무지원 요청"(요청+처리중) 수와 업무지원 목록 본사 기본 필터("요청"만)가 달라 보임(배포 DB 요청 4·처리중 2 — 데이터 문제 아님, 2026-11-09 확인, 사용자 보류).
+**발표 뒤(선택, 착수 여부는 사용자)**: 사용감 추가 점검(사용자가 직접 더 확인 — 자주 쓰는 다른 작업의 불필요한 단계·화면 구성), 시설·혼잡도 화면 1440px 폭에서 시설 카드 버튼(입력·정보 수정·운영 중단)이 세로로 찌그러짐(log/212 캡처 중 발견), 남은 스크롤 2곳(공지 등록 버튼 B09·회원 웹 예약 취소 M02, log/198), 처리 대기함 "처리할 업무지원 요청"(요청+처리중) 수와 업무지원 목록 본사 기본 필터("요청"만)가 달라 보임(배포 DB 요청 4·처리중 2 — 데이터 문제 아님, 2026-11-09 확인, 사용자 보류).
 
 ## 사용자 승인 대기 (승인 전 착수 금지)
 

diff --git a/docs/log/2026-W47.md b/docs/log/2026-W47.md
@@ -59,3 +59,20 @@
 **근거**: 4-0 공통지침 §3(슬라이드만 읽어도 이해 — 읽기 어려우면 그 원칙이 깨진다).
 
 **검증**: 생성기 글자 크기 검사, 로컬 미리보기로 바뀐 9장 넘침 0·줄바꿈 확인. 사용자가 본 `%` 줄바꿈은 로컬 미리보기에서 재현되지 않아(실제 글꼴 적용해도) 칸 폭·nowrap으로만 막았다 — 게시본에서 눈으로 확인은 사용자 몫, 검증되지 않음.
+
+<a id="233"></a>
+
+## 233. 800px 폭 상단 바·표 라벨 꺾임 수정, "꺾인 글자" 화면 검사 추가, 12주차 덱 반영 (2026-11-16)
+
+**요청**: 덱 캡처에서 발견한 800px 문제를 지금 고쳐 덱에 반영(사용자).
+
+**한 일**:
+- 상단 바(900px 이하): 두 줄로 — 1줄 이름·버튼, 2줄 회원 찾기(전체 폭). 글자 줄바꿈 금지, 이름이 길면 말줄임, 도움말 버튼은 "?"만(접근 이름 "도움말" 유지, 넓은 화면은 "? 도움말" 그대로). 높이 88px 고정이라 좁은 화면 도움말 패널도 그 아래(top 88px)에 붙는다.
+- 표: 상태 표시(`.badge`)와 표 안 버튼은 한 줄, 칸 글자는 띄어쓰기에서만 줄바꿈(`word-break: keep-all`, 띄어쓰기 없는 아주 긴 값만 `break-word`). "확|정"·"체크|인"·"한연|우"처럼 글자 중간에서 꺾이던 것이 사라졌다.
+- 그 결과 회원 표가 넓어져(띄어쓰기 없는 "회원권만(미배정)") 800px에서 24px 넘쳤다 — 문서함·자산 표와 같이 `.table-scroll`로 감쌌다(log/228 방식).
+- 화면 검사(`admin-layout`): 본문 넘침 검사에 더해 "꺾인 글자" 검사 — 상단 바 전체와 표 안 상태·버튼의 글자가 두 줄 이상이면 실패. 수정 전 코드에서 상단 바 4개·표 라벨(회원·지점 상세 등)로 실패하는 것을 확인한 뒤 고쳤다.
+- 덱 `narrow`: 상단 바까지 보이게 다시 찍고(변경 전 = #158 수정 전 빌드, 변경 후 = 지금), 제목 "좁은 창에서 깨지던 곳을 고쳤다", 각주·노트 갱신. `wrap`의 사용감 점검에서 상단 바 항목 삭제.
+
+**근거**: D59(화면 자동 테스트), log/228(800px 검사·표만 가로 스크롤), 디자인시스템(관리자 웹은 데스크톱 기준 — 좁은 폭은 깨지지 않게만).
+
+**검증**: 화면 자동 테스트 35건 전체 통과(로컬, 빌드 결과), admin-web lint·빌드 통과. 1440px 예약 관리·회원 화면을 찍어 상단 바 한 줄·"? 도움말"·표가 그대로인 것을 눈으로 확인(넓은 화면에서 바뀌는 것은 표 칸 줄바꿈 규칙뿐).

diff --git a/docs/presentation/4-9_12주차발표_슬라이드구성.md b/docs/presentation/4-9_12주차발표_슬라이드구성.md
@@ -27,10 +27,10 @@
 | 9 | `deliv-source` | 원천 한 곳에서 생성한다 | 원천 → 산출물 세 줄, 생성기가 잡은 빠진 것(API 설명 14·테이블 이름표·도움말 1) |
 | 10 | `p3` | PART 03 검증과 사용감 | 장 구분 |
 | 11 | `verify` | 수동 확인뿐이던 일곱 곳 | 업무 규칙 · 화면 흐름 · 좁은 화면 카드 3장(log/228) |
-| 12 | `narrow` | 좁은 창에서 넘치던 곳을 고쳤다 | 예약 관리 800px 변경 전·후 — 필터 줄. 같은 폭 상단 바는 아직 줄바꿈(각주·노트) |
+| 12 | `narrow` | 좁은 창에서 깨지던 곳을 고쳤다 | 예약 관리 800px 변경 전·후 — 상단 바(두 줄)·표 이름·상태·버튼(한 줄)·필터 줄(log/233) |
 | 13 | `p4` | PART 04 전체 진행률 | 장 구분 |
 | 14 | `progress` | 최종 제출까지 84% | 묶음 5개 막대(가중치·완료율) + 66% → 84%(D80) |
-| 15 | `wrap` | 다음 할 일 | 최종 발표·제출 · 사용감 직접 점검(좁은 폭 상단 바·스크롤 2곳·시설 카드 버튼) · 마무리(운영 PT 확인·브랜치 정리·main 병합) |
+| 15 | `wrap` | 다음 할 일 | 최종 발표·제출 · 사용감 직접 점검(스크롤 2곳·시설 카드 버튼) · 마무리(운영 PT 확인·브랜치 정리·main 병합) |
 | 16 | `closing` | 감사합니다 | 점 격자 |
 
 ## 시간 배분 (15분)
@@ -57,7 +57,7 @@
 
 ## 가독성 정리 (2026-11-16, 사용자 피드백)
 
-진행률 장의 `%` 줄바꿈 지적에 따라 전 장을 점검했다. 막대 칸 폭·nowrap 고정(progress), 단어 중간 줄바꿈 제거(report-shot·deliv·deliv-source·verify), 카드·캡션·각주를 명사구로 줄임(agenda·report-print·narrow·wrap). 내용(수치·메시지)은 바꾸지 않았다(log/232).
+진행률 장의 `%` 줄바꿈 지적에 따라 전 장을 점검했다. 막대 칸 폭·nowrap 고정(progress), 단어 중간 줄바꿈 제거(report-shot·deliv·deliv-source·verify), 카드·캡션·각주를 명사구로 줄임(agenda·report-print·narrow·wrap). 내용(수치·메시지)은 바꾸지 않았다(log/232). 이어서 덱 캡처에서 찾은 800px 상단 바·표 라벨 꺾임을 고치고 `narrow`·`wrap`을 다시 찍었다(log/233).
 
 ## Q&A 대비 (슬라이드에는 넣지 않음)
 

diff --git a/docs/log/README.md b/docs/log/README.md
@@ -257,3 +257,4 @@
 | [230](2026-W47.md#230) | 2026-11-16 | 운영 의존성 취약점 3건 → 0 — NestJS 11.2.10(multer 2.5.0)·follow-redirects 1.16.3, 같은 메이저 패치만(D63·D65), 잠금 파일은 npm 11로 |
 | [231](2026-W47.md#231) | 2026-11-16 | 12주차 발표 덱 16장(갱신 리포트·산출물·검증과 사용감·진행률 84%), 800px 상단 바 줄바꿈 발견 |
 | [232](2026-W47.md#232) | 2026-11-16 | 12주차 덱 가독성 정리 — 진행률 `%` 줄바꿈·단어 중간 끊김·긴 문구, 규칙을 4-0 공통지침에 추가 |
+| [233](2026-W47.md#233) | 2026-11-16 | 800px 상단 바 두 줄·표 상태·버튼 한 줄·칸은 띄어쓰기에서만 줄바꿈, 회원 표 가로 스크롤, "꺾인 글자" 화면 검사 추가, 12주차 덱 반영 |
